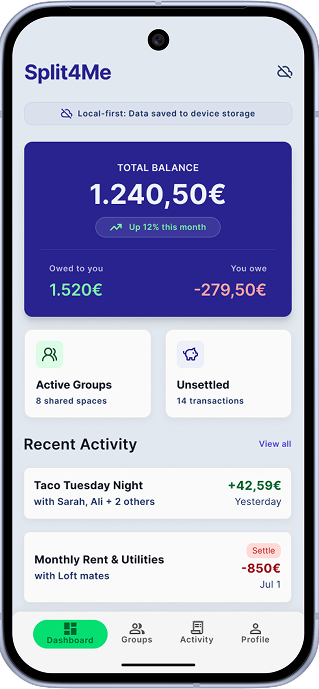
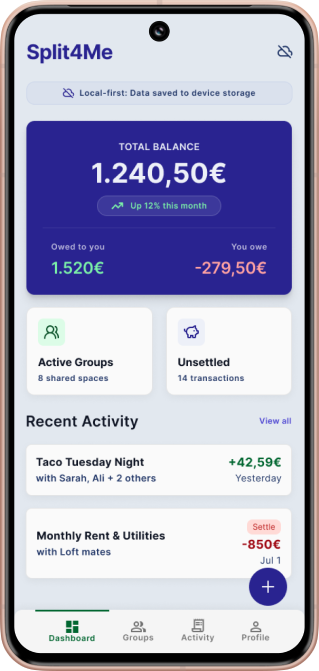
split app screenshot

diff --git a/src/data/site.ts b/src/data/site.ts
@@ -1,3 +1,5 @@
+import Bluesky from "../components/icons/Bluesky.astro";
+
 export const siteConfig = {
   name: "Portfolio",
   description: "Personal portfolio website",
@@ -8,6 +10,7 @@ export const siteConfig = {
     email: "jmperezbu@proton.me",
     github: "semiarte",
     linkedin: "semiarte",
+    bluesky: "elsemi",
   },
   navigation: [
     { label: "About", path: "#about" },
